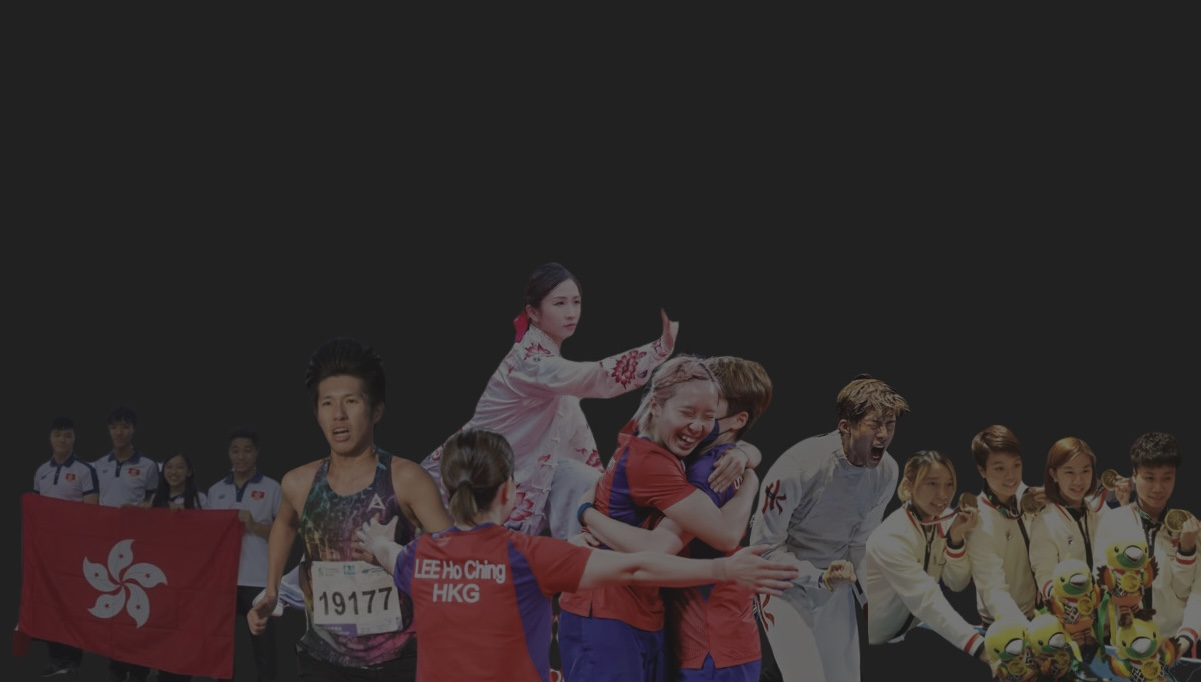
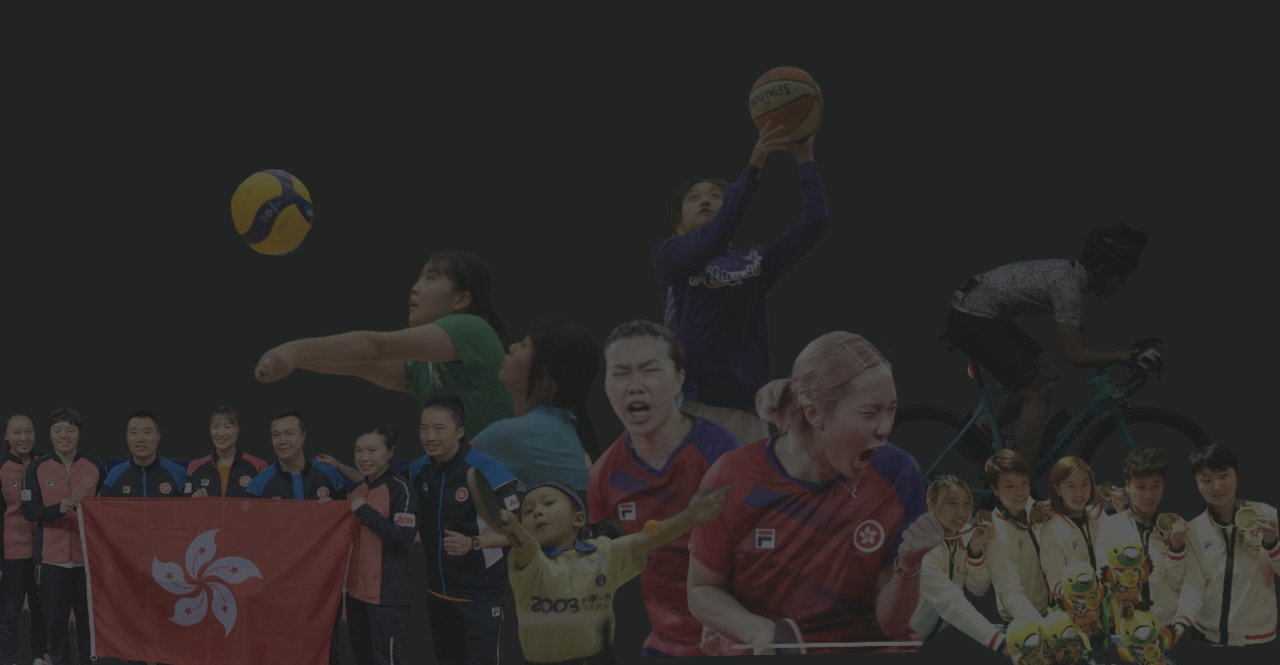
change background and upload video content

diff --git a/public/html/technique.html b/public/html/technique.html
@@ -188,7 +188,7 @@
             <div> * SOOAR比賽影片旁述和一般在電視上的旁述不同，電視上的旁述目的比較大眾化和帶有娛樂性質，SOOAR的比賽影片旁述主要是技術性和教學性質。</div>
         </div>
         <br>
-        <div> 在影片完成後，導師會以MP4格式的影片傳送給學員。</div>
+        <div> 在影片完成後，導師會以不公開（unlisted）的模式上載至Youtube，然後將連結傳送給學員。SOOAR絕不會外洩Youtube連結以保障您的隱私。</div>
         <div class="unlock"> 留意：本公司只分析購買報告的學員，並不提供分析對手的服務。此服務的目的是提升個人的比賽技術和戰術意識，而不是針對某個對手。 </div>
         <div class="sep-bar-10"></div>
         <div class="sep-line"></div>
@@ -205,7 +205,7 @@
             <div>4）影片旁述</div>
         </div>
         <br>
-        <div> 在報告和旁述完成後，導師會以PDF文檔的報告以及MP4格式的影片傳送給學員。</div>
+        <div> 在報告和旁述完成後，導師會傳送PDF文檔的報告給學員，以及以不公開（unlisted）的模式將已旁述的影片上載至Youtube，然後將連結傳送給學員。SOOAR絕不會外洩Youtube連結以保障您的隱私。</div>
         <div class="sep-bar-10"></div>
         <div class="sep-line"></div>
     </div>
@@ -222,14 +222,14 @@
             <div>5）網上面談</div>
         </div>
         <br>
-        <div> 在報告和旁述完成後，導師會以PDF文檔的報告以及MP4格式的影片傳送給學員。之後，導師會主動和學員預約網上面談的日子。網上面談會以Zoom形式進行，導師會發送Zoom Link給學員，請學員提前下載Zoom軟件。</div>
+        <div> 在報告和旁述完成後，導師會傳送PDF文檔的報告給學員，以及以不公開（unlisted）的模式將已旁述的影片上載至Youtube，然後將連結傳送給學員。SOOAR絕不會外洩Youtube連結以保障您的隱私。之後，導師會主動和學員預約網上面談的日子。網上面談會以Zoom形式進行，導師會發送Zoom Link給學員，請學員提前下載Zoom軟件。</div>
         <div class="sep-bar-10"></div>
         <div class="sep-line"></div>
     </div>
 
     <div class="content-container">
         <div>
-            <h3> 技術套票3: 技術報告 + 比賽影片旁述 + 現場教學 （名額較少，請見諒）<s>$1450 </s> $1199（試業期間優惠到31/8/2025）</h3>
+            <h3> 技術套票3: 技術報告 + 比賽影片旁述 + 現場教學 （名額較少，請見諒）<s>$1450 </s> $1199（未開放）</h3>
             <div class="unlock"> 留意：蘇慧音因為傷患，不能執板教學，會在身旁指導。請自行預約陪練。陪練的水平起碼要有香港丙組/金章水平，防守時能控制落點，和懂得派多球。如有困難找陪練，本公司可幫忙安排，陪練費用為$450。</div>
             <div>購買SOOAR技術套票2，包括：</div>
             <div class="sep-bar-10"></div>
@@ -241,7 +241,7 @@
         </div>
 
         <br>
-        <div> 在報告和旁述完成後，導師會以PDF文檔的報告以及MP4格式的影片傳送給學員。之後，導師會主動和學員預約訓練日子。場地和陪練需由學員安排。陪練的水平起碼要有香港丙組/金章水平，防守時能控制落點，和懂得派多球。如有困難找陪練，本公司可幫忙安排，陪練費用為$450。</div>
+        <div> 在報告和旁述完成後，導師會傳送PDF文檔的報告給學員，以及以不公開（unlisted）的模式將已旁述的影片上載至Youtube，然後將連結傳送給學員。SOOAR絕不會外洩Youtube連結以保障您的隱私。之後，導師會主動和學員預約訓練日子。場地和陪練需由學員安排。陪練的水平起碼要有香港丙組/金章水平，防守時能控制落點，和懂得派多球。如有困難找陪練，本公司可幫忙安排，陪練費用為$450。</div>
         <div class="sep-bar-10"></div>
         <div class="sep-line"></div>
     </div>
